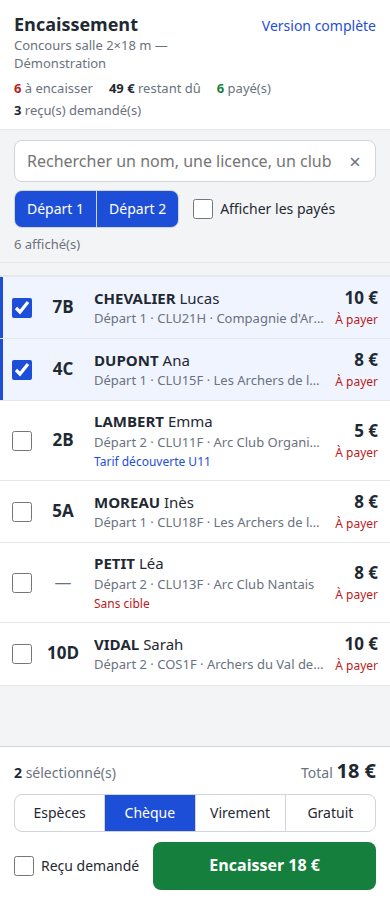
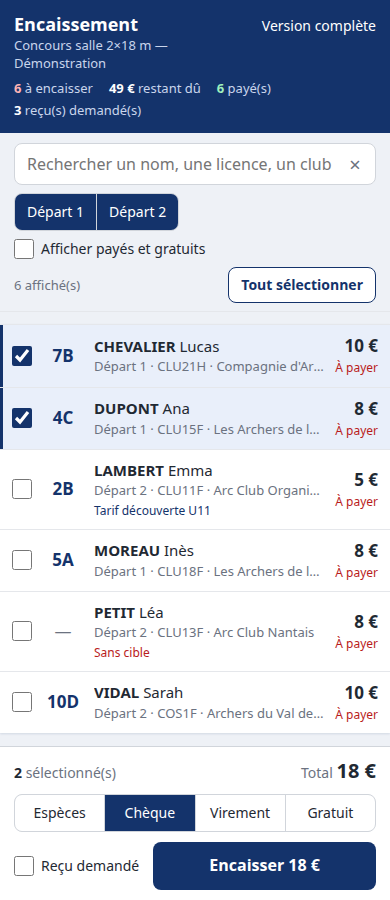
Kiosk bandeau club, sélection globale et engagements gratuits
- Kiosk : charte "Bandeau club" (en-tête et boutons bleu marine)
- Kiosk : bouton Tout sélectionner / Tout désélectionner sur les lignes affichées
- Engagement à 0 € considéré comme gratuit : statut "Gratuit", pas de
  bouton Valider, exclu des non payés et des montants à encaisser ;
  nouveau filtre "Gratuits" dans la liste ; statut "Gratuit" sur la facture
- README et captures du kiosque mis à jour

diff --git a/kiosk.php b/kiosk.php
@@ -286,6 +286,7 @@ if ($rs) {
             'tarif_label' => $tarifLabel,
             'has_special_tarif' => $hasSpecialTarif,
             'is_free' => $isFree,
+            'nothing_due' => registrarc_nothing_due($amountDue),
         ];
     }
 }
@@ -320,6 +321,7 @@ if (isset($_SESSION['RegistrArc_kiosk_message'])) {
 }
 
 $paidRows = 0;
+$freeRows = 0;
 $unpaidRows = 0;
 $receiptRows = 0;
 $unpaidAmount = 0;
@@ -327,6 +329,8 @@ $unpaidAmount = 0;
 foreach ($rows as $r) {
     if ($r['payment_status'] === 'PAYE') {
         $paidRows++;
+    } elseif (!empty($r['nothing_due'])) {
+        $freeRows++;
     } else {
         $unpaidRows++;
         $unpaidAmount += (float)$r['amount_due'];
@@ -352,10 +356,12 @@ foreach ($rows as $r) {
             --muted: #6b7280;
             --line: #e5e7eb;
             --line-strong: #d1d5db;
-            --bg: #f3f4f6;
+            --bg: #eef1f6;
             --surface: #ffffff;
-            --accent: #1d4ed8;
-            --accent-soft: #eff4ff;
+            --accent: #14336b;
+            --accent-soft: #e9effa;
+            --on-accent: #ffffff;
+            --on-accent-muted: #c9d5ec;
             --paid: #15803d;
             --unpaid: #b91c1c;
             --warn: #b45309;
@@ -411,9 +417,9 @@ foreach ($rows as $r) {
 
         /* --- En-tête ---------------------------------------------------------- */
         .topbar {
-            background: var(--surface);
-            border-bottom: 1px solid var(--line);
-            padding: 12px 14px 10px;
+            background: var(--accent);
+            color: var(--on-accent);
+            padding: 12px 14px 14px;
         }
 
         .topbar-line {
@@ -429,13 +435,13 @@ foreach ($rows as $r) {
         }
 
         .subtitle {
-            color: var(--muted);
+            color: var(--on-accent-muted);
             font-size: 13px;
             margin-top: 1px;
         }
 
         .topbar a {
-            color: var(--accent);
+            color: var(--on-accent);
             font-size: 14px;
             text-decoration: none;
             white-space: nowrap;
@@ -447,20 +453,20 @@ foreach ($rows as $r) {
             gap: 4px 16px;
             margin-top: 8px;
             font-size: 13px;
-            color: var(--muted);
+            color: var(--on-accent-muted);
         }
 
         .summary strong {
-            color: var(--text);
+            color: var(--on-accent);
             font-weight: 600;
         }
 
         .summary .is-unpaid strong {
-            color: var(--unpaid);
+            color: #ffb4b4;
         }
 
         .summary .is-paid strong {
-            color: var(--paid);
+            color: #9ff0bd;
         }
 
         /* --- Recherche et filtres --------------------------------------------- */
@@ -568,10 +574,34 @@ foreach ($rows as $r) {
             accent-color: var(--accent);
         }
 
-        .results-count {
+        .results {
             margin-left: auto;
+            display: inline-flex;
+            align-items: center;
+            gap: 12px;
+        }
+
+        .results-count {
             color: var(--muted);
             font-size: 13px;
+        }
+
+        .select-all {
+            min-height: 36px;
+            padding: 0 12px;
+            border: 1px solid var(--accent);
+            border-radius: var(--radius);
+            background: var(--surface);
+            color: var(--accent);
+            font-size: 14px;
+            font-weight: 600;
+            cursor: pointer;
+        }
+
+        .select-all:disabled {
+            border-color: var(--line-strong);
+            color: var(--muted);
+            cursor: default;
         }
 
         /* --- Liste ------------------------------------------------------------ */
@@ -595,8 +625,8 @@ foreach ($rows as $r) {
 
         .list {
             background: var(--surface);
-            border: 1px solid var(--line);
             border-radius: var(--radius);
+            box-shadow: 0 1px 2px rgba(20, 51, 107, 0.12);
             overflow: hidden;
         }
 
@@ -627,6 +657,7 @@ foreach ($rows as $r) {
         }
 
         .row-target {
+            color: var(--accent);
             font-size: 17px;
             font-weight: 700;
             text-align: center;
@@ -763,8 +794,8 @@ foreach ($rows as $r) {
             height: 48px;
             border: none;
             border-radius: var(--radius);
-            background: var(--paid);
-            color: #fff;
+            background: var(--accent);
+            color: var(--on-accent);
             font-size: 16px;
             font-weight: 600;
             cursor: pointer;
@@ -789,13 +820,13 @@ foreach ($rows as $r) {
             }
 
             .list {
-                border-left: none;
-                border-right: none;
                 border-radius: 0;
             }
 
-            .results-count {
+            .results {
                 margin-left: 0;
+                width: 100%;
+                justify-content: space-between;
             }
         }
     </style>
@@ -817,6 +848,9 @@ foreach ($rows as $r) {
                 <span class="is-unpaid"><strong><?php echo intval($unpaidRows); ?></strong> à encaisser</span>
                 <span><strong><?php echo registrarc_format_montant($unpaidAmount); ?> €</strong> restant dû</span>
                 <span class="is-paid"><strong><?php echo intval($paidRows); ?></strong> payé(s)</span>
+                <?php if ($freeRows > 0): ?>
+                    <span class="is-paid"><strong><?php echo intval($freeRows); ?></strong> gratuit(s)</span>
+                <?php endif; ?>
                 <span><strong><?php echo intval($receiptRows); ?></strong> reçu(s) demandé(s)</span>
             </div>
         </header>
@@ -848,10 +882,13 @@ foreach ($rows as $r) {
 
                 <label class="check switch">
                     <input type="checkbox" id="showPaidCheckbox" autocomplete="off" onchange="filterCards();">
-                    Afficher les payés
+                    Afficher payés et gratuits
                 </label>
 
-                <span class="results-count num"><span id="visibleCount"><?php echo count($rows); ?></span> affiché(s)</span>
+                <div class="results">
+                    <span class="results-count num"><span id="visibleCount"><?php echo count($rows); ?></span> affiché(s)</span>
+                    <button type="button" id="selectAllBtn" class="select-all" onclick="toggleSelectAllVisible();">Tout sélectionner</button>
+                </div>
             </div>
         </div>
 
@@ -879,6 +916,9 @@ foreach ($rows as $r) {
                 <?php foreach ($rows as $row): ?>
                     <?php
                     $isPaid = ($row['payment_status'] === 'PAYE');
+                    $isFreeDue = !$isPaid && !empty($row['nothing_due']);
+                    // Payé ou gratuit : rien à encaisser, masqué par défaut comme les payés
+                    $isSettled = $isPaid || $isFreeDue;
                     $amountData = number_format((float)$row['amount_due'], 2, '.', '');
                     $searchText = mb_strtolower(
                         $row['licence'] . ' ' .
@@ -897,10 +937,10 @@ foreach ($rows as $r) {
                     ]);
                     ?>
                     <div
-                        class="kiosk-card <?php echo $isPaid ? 'is-paid' : ''; ?>"
+                        class="kiosk-card <?php echo $isSettled ? 'is-paid' : ''; ?>"
                         data-search="<?php echo htmlspecialchars($searchText); ?>"
                         data-session="<?php echo htmlspecialchars($row['session']); ?>"
-                        data-paid="<?php echo $isPaid ? '1' : '0'; ?>"
+                        data-paid="<?php echo $isSettled ? '1' : '0'; ?>"
                         data-amount="<?php echo htmlspecialchars($amountData); ?>"
                         onclick="toggleCardSelection(event, this);"
                     >
@@ -948,10 +988,12 @@ foreach ($rows as $r) {
                             <div class="amount num">
                                 <?php echo !empty($row['is_free']) ? 'Gratuit' : registrarc_format_montant($row['amount_due']) . ' €'; ?>
                             </div>
-                            <div class="state <?php echo $isPaid ? 'state-paid' : 'state-unpaid'; ?>">
+                            <div class="state <?php echo $isSettled ? 'state-paid' : 'state-unpaid'; ?>">
                                 <?php
                                 if ($isPaid) {
                                     echo htmlspecialchars('Payé' . ($row['payment_method_label'] !== '' ? ' · ' . $row['payment_method_label'] : ''));
+                                } elseif ($isFreeDue) {
+                                    echo 'Rien à payer';
                                 } else {
                                     echo 'À payer';
                                 }
@@ -1263,6 +1305,40 @@ foreach ($rows as $r) {
             return total;
         }
 
+        function visibleCards() {
+            return Array.from(document.querySelectorAll('.kiosk-card')).filter(card => card.style.display !== 'none');
+        }
+
+        // Coche toutes les lignes affichées, ou les décoche si elles le sont déjà toutes
+        function toggleSelectAllVisible() {
+            const boxes = visibleCards()
+                .map(card => card.querySelector('.bulk-checkbox'))
+                .filter(cb => cb);
+            const allChecked = boxes.length > 0 && boxes.every(cb => cb.checked);
+
+            boxes.forEach(cb => {
+                cb.checked = !allChecked;
+            });
+
+            updateBulkSummary();
+        }
+
+        function updateSelectAllButton() {
+            const btn = document.getElementById('selectAllBtn');
+
+            if (!btn) {
+                return;
+            }
+
+            const boxes = visibleCards()
+                .map(card => card.querySelector('.bulk-checkbox'))
+                .filter(cb => cb);
+            const allChecked = boxes.length > 0 && boxes.every(cb => cb.checked);
+
+            btn.disabled = boxes.length === 0;
+            btn.textContent = allChecked ? 'Tout désélectionner' : 'Tout sélectionner';
+        }
+
         function updateBulkSummary() {
             const count = selectedBulkCount();
             const total = selectedBulkTotal();
@@ -1302,6 +1378,8 @@ foreach ($rows as $r) {
                     card.classList.remove('is-selected');
                 }
             });
+
+            updateSelectAllButton();
         }
 
         function currentBulkPaymentMethod() {

diff --git a/index.php b/index.php
@@ -628,6 +628,10 @@ foreach ($engagementsData as $idx => $e) {
     $engagementsData[$idx]['montant_base'] = $montantBase;
     $engagementsData[$idx]['montant'] = $montant;
     $engagementsData[$idx]['tarif_rule_label'] = $ruleLabel;
+    $engagementsData[$idx]['is_free'] = registrarc_nothing_due($montantBase);
+
+    // Ordre du tri par statut : non payé, gratuit, payé
+    $engagementsData[$idx]['status_rank'] = $e['payment_status'] ? 2 : ($engagementsData[$idx]['is_free'] ? 1 : 0);
 }
 
 // ---------------------------------------------------------------------------
@@ -681,7 +685,13 @@ foreach ($engagementsData as $e) {
         continue;
     }
 
-    if ($filters['payment'] === 'unpaid' && $isPaid) {
+    $isFree = !$isPaid && !empty($e['is_free']);
+
+    if ($filters['payment'] === 'unpaid' && ($isPaid || $isFree)) {
+        continue;
+    }
+
+    if ($filters['payment'] === 'free' && !$isFree) {
         continue;
     }
 
@@ -742,7 +752,7 @@ usort($displayEngagements, function($a, $b) use ($sortColumn, $sortDirection) {
             return $dir * ($a['montant'] <=> $b['montant']);
 
         case 'statut':
-            return $dir * ($a['payment_status'] <=> $b['payment_status']);
+            return $dir * ($a['status_rank'] <=> $b['status_rank']);
 
         case 'paiement':
             return $dir * strcmp((string)$a['payment_method'], (string)$b['payment_method']);
@@ -1431,6 +1441,7 @@ include('Common/Templates/head.php');
                         <option value="all" <?php echo ($filters['payment'] === 'all') ? 'selected' : ''; ?>>Tous</option>
                         <option value="paid" <?php echo ($filters['payment'] === 'paid') ? 'selected' : ''; ?>>Payés</option>
                         <option value="unpaid" <?php echo ($filters['payment'] === 'unpaid') ? 'selected' : ''; ?>>Non payés</option>
+                        <option value="free" <?php echo ($filters['payment'] === 'free') ? 'selected' : ''; ?>>Gratuits</option>
                     </select>
                 </div>
 
@@ -1565,6 +1576,7 @@ include('Common/Templates/head.php');
                     <?php foreach ($displayEngagements as $e): ?>
                         <?php
                         $isPaid = ($e['payment_status'] == 1);
+                        $isFree = !$isPaid && !empty($e['is_free']);
                         $archerLabel = trim($e['nom'] . ' ' . $e['prenom']);
                         ?>
                         <tr>
@@ -1605,8 +1617,8 @@ include('Common/Templates/head.php');
                             <td style="text-align:right;"><?php echo registrarc_format_montant($e['montant']); ?> €</td>
 
                             <td>
-                                <span class="<?php echo $isPaid ? 'status-paid' : 'status-unpaid'; ?>">
-                                    <?php echo $isPaid ? 'Payé' : 'Non payé'; ?>
+                                <span class="<?php echo ($isPaid || $isFree) ? 'status-paid' : 'status-unpaid'; ?>">
+                                    <?php echo $isPaid ? 'Payé' : ($isFree ? 'Gratuit' : 'Non payé'); ?>
                                 </span>
                             </td>
 
@@ -1635,7 +1647,7 @@ include('Common/Templates/head.php');
                                             </button>
                                         </form>
                                         <?php endif; ?>
-                                    <?php elseif ($canWrite): ?>
+                                    <?php elseif ($canWrite && !$isFree): ?>
                                         <form method="POST">
                                             <?php echo registrarc_form_fields($TourId); ?>
                                             <input type="hidden" name="engagement_id" value="<?php echo intval($e['engagement_id']); ?>">

diff --git a/invoice.php b/invoice.php
@@ -299,7 +299,7 @@ function registrarc_enrich_invoice_rows(array $rows, array $tarifs, $organizerCl
         $row['numero_engagement'] = $numeroEngagement;
         $row['session_label'] = $sessionLabel;
         $row['target_label'] = $targetLabel;
-        $row['payment_status_label'] = $isPaid ? 'Payé' : 'Non payé';
+        $row['payment_status_label'] = $isPaid ? 'Payé' : (registrarc_nothing_due($amountBase) ? 'Gratuit' : 'Non payé');
         $row['payment_method'] = $method;
         $row['payment_method_label'] = $methodLabel;
         $row['tarif_rule_label'] = $ruleLabel;
@@ -979,7 +979,7 @@ Date : <?php echo htmlspecialchars($tournament['when_label']); ?>
                             </span>
                         </td>
                         <td>
-                            <span class="<?php echo ($row['payment_status_label'] === 'Payé') ? 'status-paid' : 'status-unpaid'; ?>">
+                            <span class="<?php echo ($row['payment_status_label'] !== 'Non payé') ? 'status-paid' : 'status-unpaid'; ?>">
                                 <?php echo htmlspecialchars($row['payment_status_label']); ?>
                             </span>
                         </td>

diff --git a/lib/registrarc.inc.php b/lib/registrarc.inc.php
@@ -1030,6 +1030,12 @@ function registrarc_is_free_method($method) {
     return in_array($method, ['GRA', 'GRATUIT'], true);
 }
 
+// Engagement gratuit (montant dû à 0 €) : l'archer n'a rien à payer,
+// il n'est ni "à payer" ni en attente d'encaissement.
+function registrarc_nothing_due($amount) {
+    return (float)$amount <= 0;
+}
+
 function registrarc_is_null_empty_or_zero($value) {
     if ($value === null) {
         return true;
